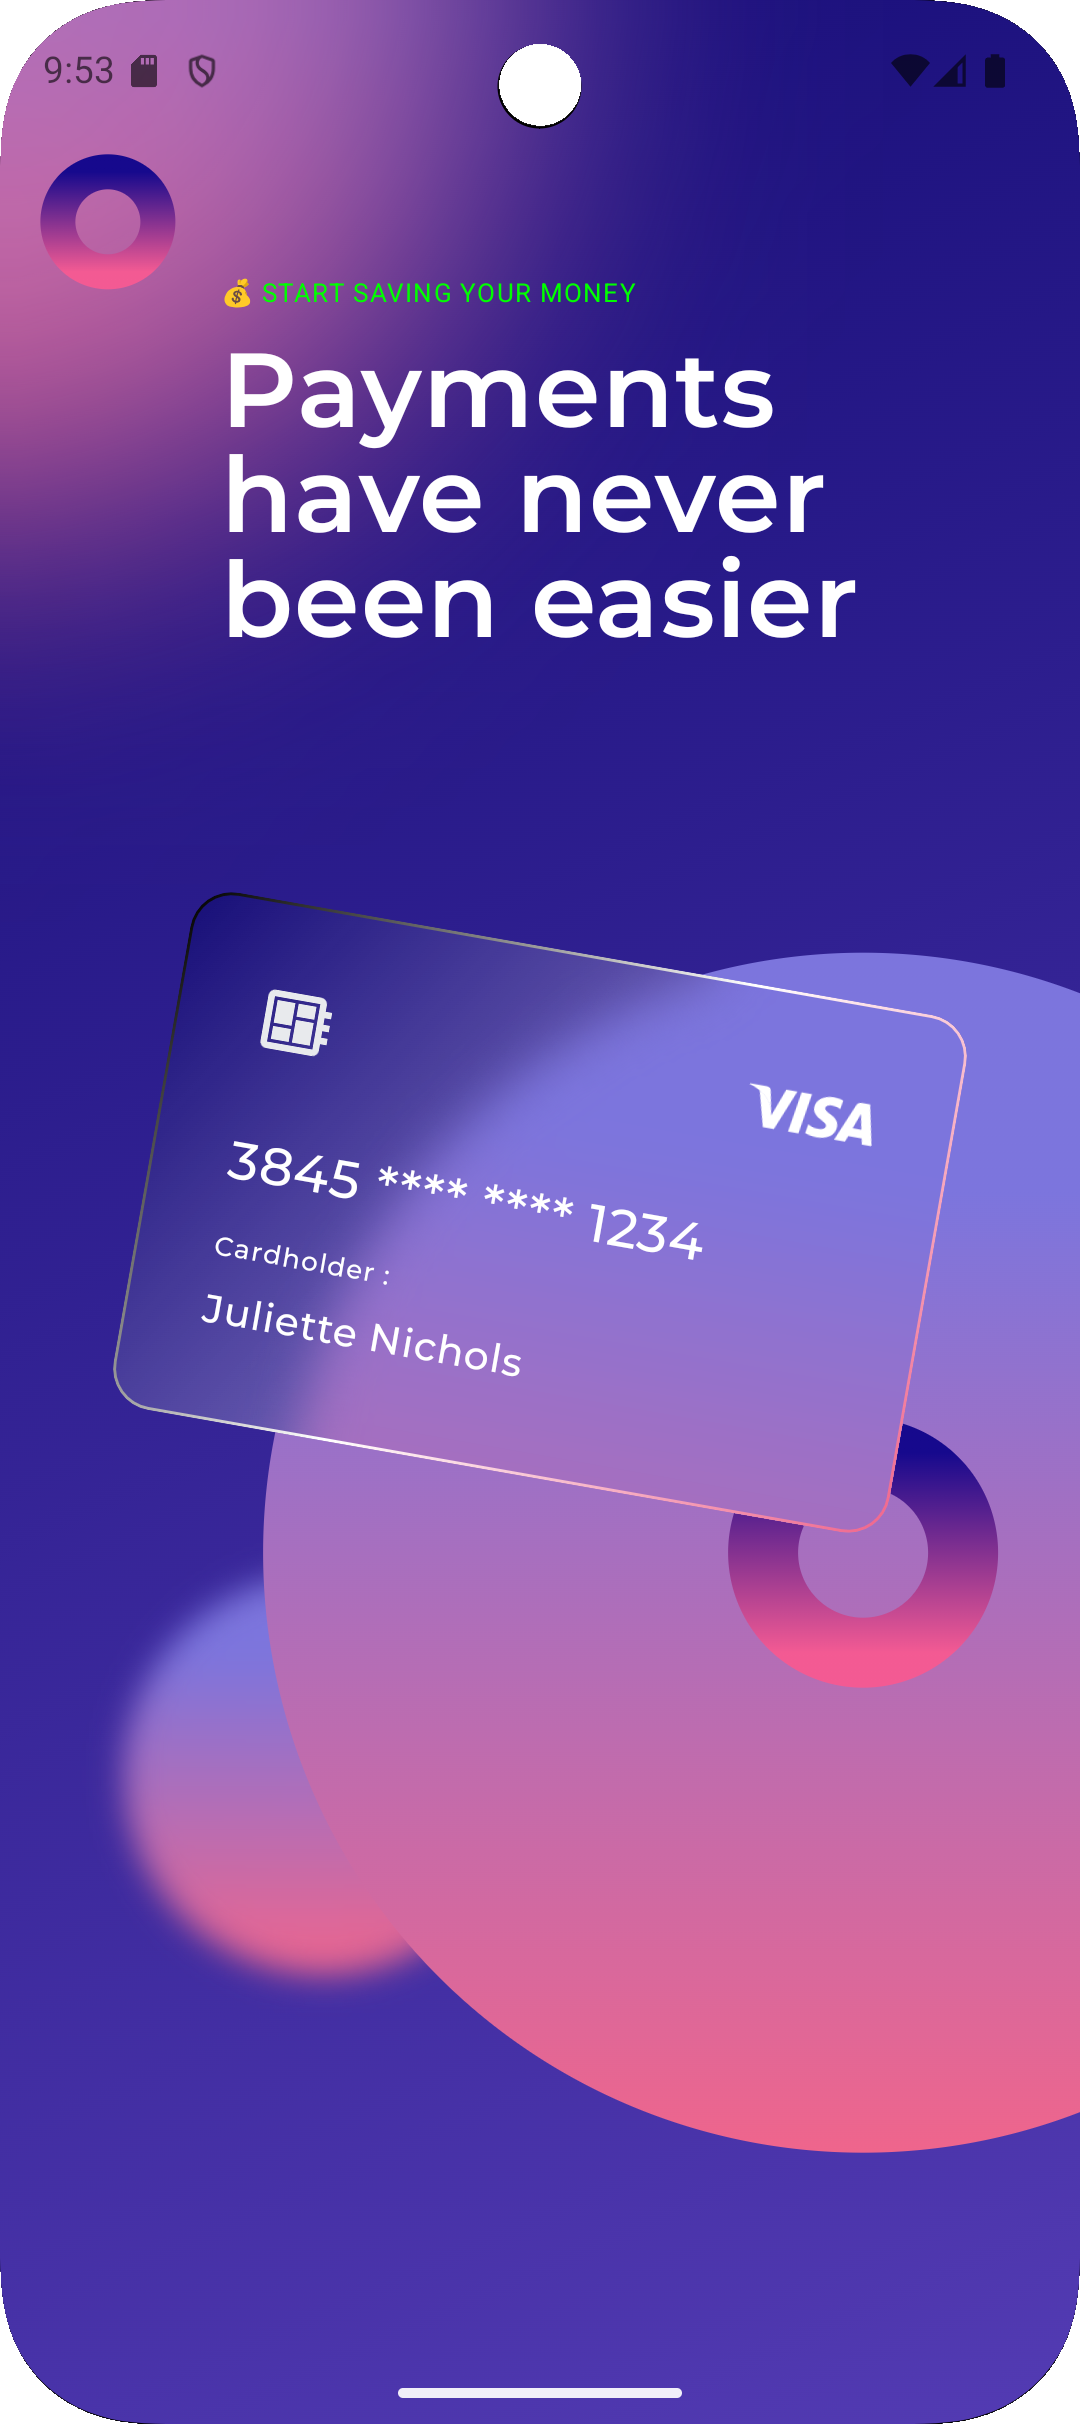
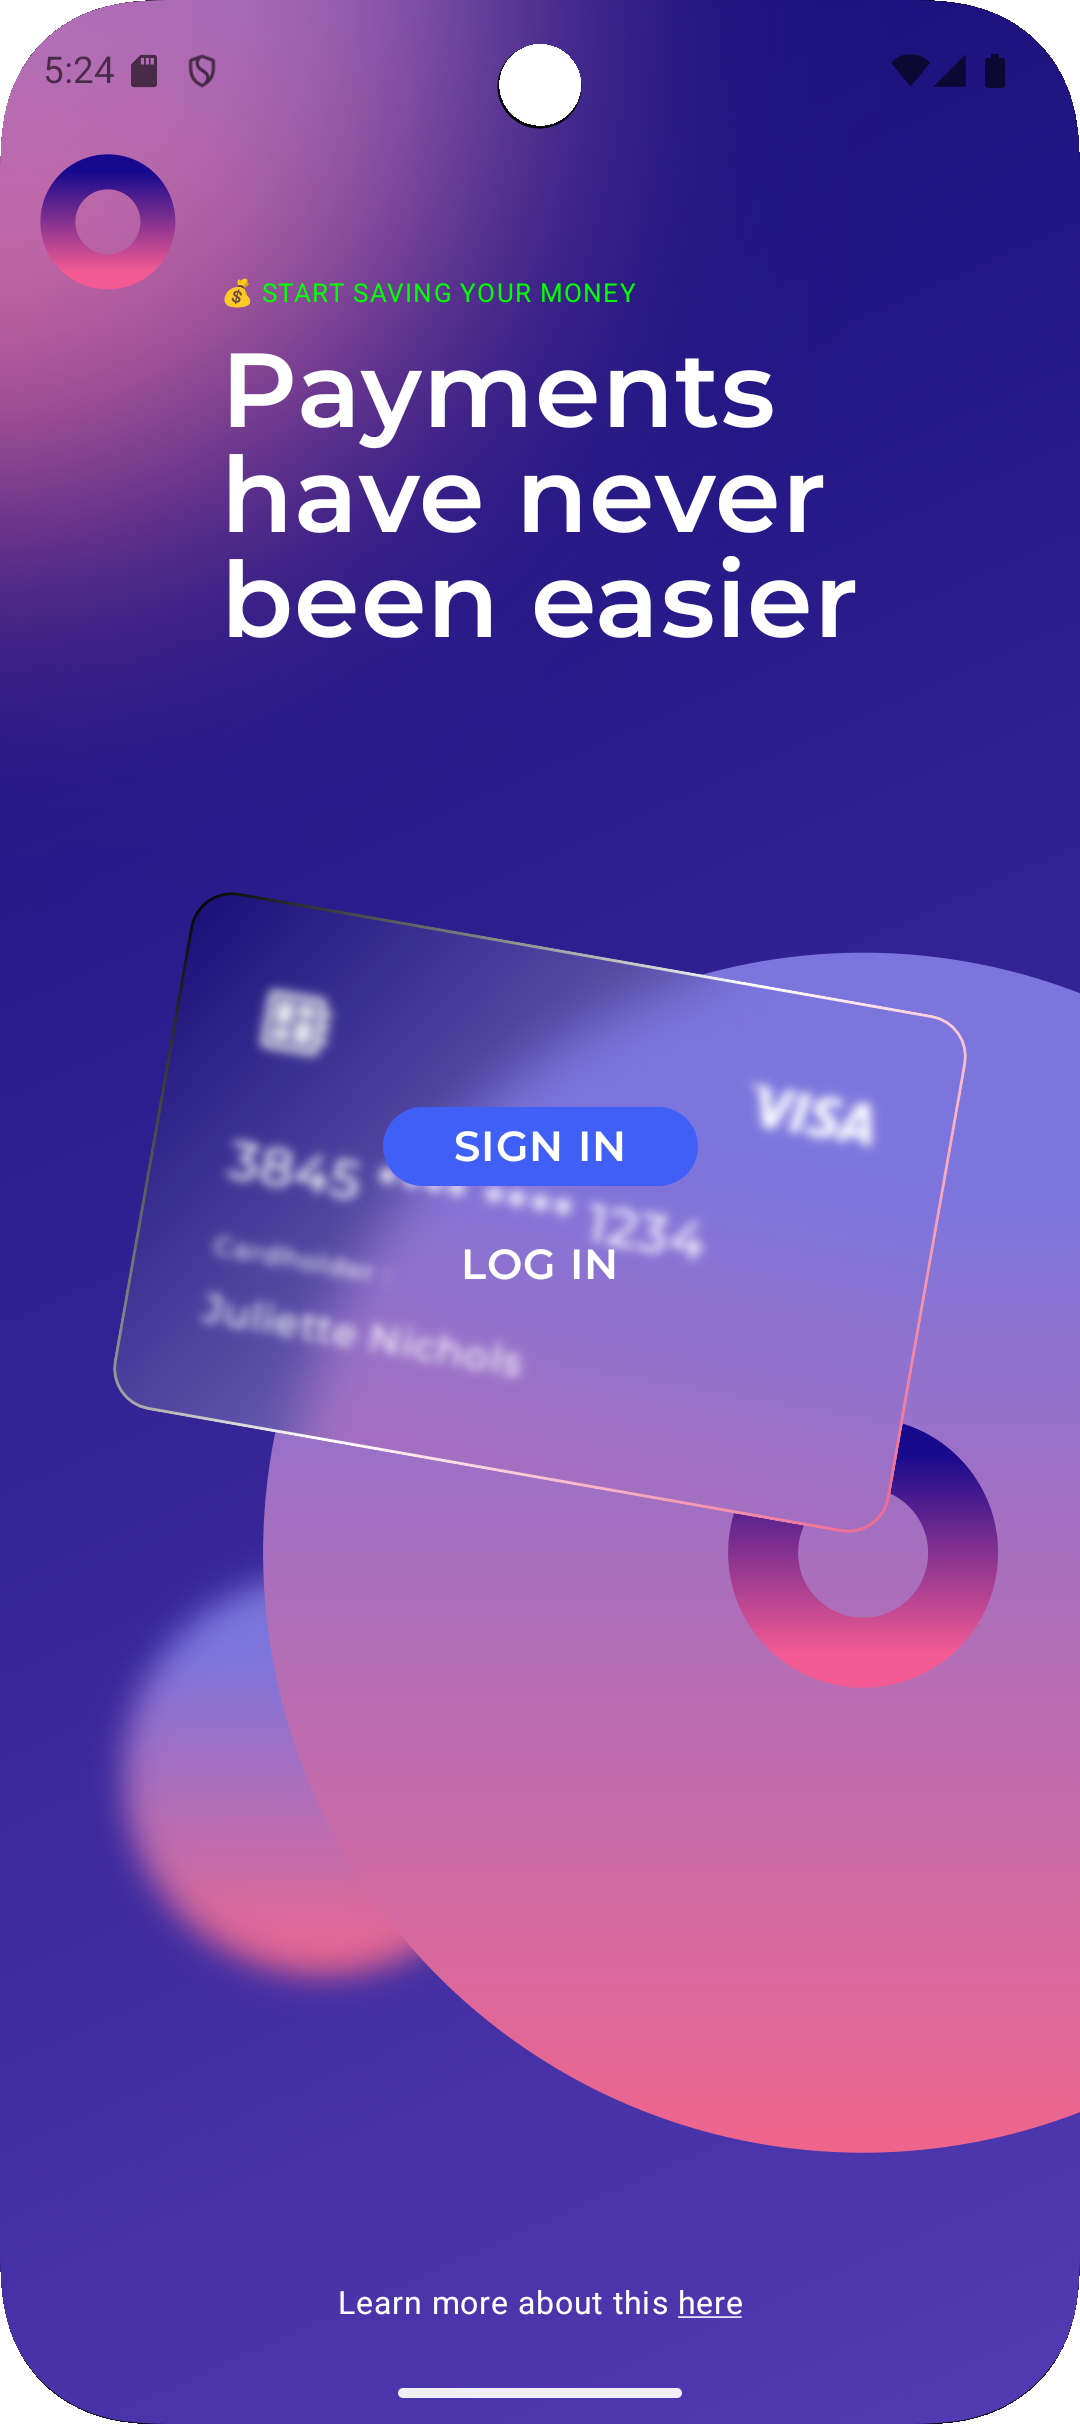
new preview

diff --git a/app/src/main/java/com/shibler/glassmorphism/MainActivity.kt b/app/src/main/java/com/shibler/glassmorphism/MainActivity.kt
@@ -11,11 +11,16 @@ import androidx.compose.foundation.layout.Arrangement
 import androidx.compose.foundation.layout.Box
 import androidx.compose.foundation.layout.Column
 import androidx.compose.foundation.layout.Row
+import androidx.compose.foundation.layout.Spacer
+import androidx.compose.foundation.layout.WindowInsets
+import androidx.compose.foundation.layout.asPaddingValues
 import androidx.compose.foundation.layout.fillMaxSize
 import androidx.compose.foundation.layout.fillMaxWidth
+import androidx.compose.foundation.layout.height
 import androidx.compose.foundation.layout.offset
 import androidx.compose.foundation.layout.padding
 import androidx.compose.foundation.layout.size
+import androidx.compose.foundation.layout.systemBars
 import androidx.compose.foundation.shape.RoundedCornerShape
 import androidx.compose.material3.Text
 import androidx.compose.material3.windowsizeclass.ExperimentalMaterial3WindowSizeClassApi
@@ -43,6 +48,8 @@ import androidx.compose.ui.platform.LocalDensity
 import androidx.compose.ui.res.painterResource
 import androidx.compose.ui.text.font.Font
 import androidx.compose.ui.text.font.FontFamily
+import androidx.compose.ui.text.style.TextDecoration
+import androidx.compose.ui.tooling.preview.Devices
 import androidx.compose.ui.tooling.preview.Preview
 import androidx.compose.ui.unit.IntSize
 import androidx.compose.ui.unit.dp
@@ -50,6 +57,7 @@ import androidx.compose.ui.unit.sp
 import com.shibler.glassmorphism.ui.theme.GlassmorphismTheme
 import com.shibler.glassmorphism.ui.theme.backgroundBottom
 import com.shibler.glassmorphism.ui.theme.backgroundTop
+import com.shibler.glassmorphism.ui.theme.btnColor
 import com.shibler.glassmorphism.ui.theme.circleGradient
 import com.shibler.glassmorphism.ui.theme.orange
 import com.shibler.glassmorphism.ui.theme.pink
@@ -66,9 +74,9 @@ class MainActivity : ComponentActivity() {
                 val windowSizeClass = calculateWindowSizeClass(this)
 
                 when(windowSizeClass.widthSizeClass) {
-                    androidx.compose.material3.windowsizeclass.WindowWidthSizeClass.Compact -> GLassmorphism2(text = "Compact")
-                    androidx.compose.material3.windowsizeclass.WindowWidthSizeClass.Medium -> GLassmorphism2(text = "Medium")
-                    androidx.compose.material3.windowsizeclass.WindowWidthSizeClass.Expanded -> GLassmorphism2(text = "Expanded")
+                    androidx.compose.material3.windowsizeclass.WindowWidthSizeClass.Compact -> GLassmorphismPhoneScreen()
+                    androidx.compose.material3.windowsizeclass.WindowWidthSizeClass.Medium -> GLassmorphismPhoneScreen()
+                    androidx.compose.material3.windowsizeclass.WindowWidthSizeClass.Expanded -> GLassmorphismTabletScreen(text = "Expanded")
                 }
 
             }
@@ -76,7 +84,7 @@ class MainActivity : ComponentActivity() {
     }
 }
 
-@Preview(showBackground = true)
+/*@Preview(showBackground = true)
 @Composable
 fun Glassmorphism1() {
 
@@ -154,11 +162,11 @@ fun Glassmorphism1() {
 
     }
 
-}
+}*/
 
 @Preview
 @Composable
-fun GLassmorphism2(text : String = "Hey") {
+fun GLassmorphismPhoneScreen() {
 
     val width = LocalConfiguration.current.screenWidthDp.dp
     val density = LocalDensity.current
@@ -198,29 +206,13 @@ fun GLassmorphism2(text : String = "Hey") {
 
         Donut(Offset(widthInPx * 0.8f, heightInPx * 0.7f))
 
-            /*Box(
-                modifier = Modifier
-                    .rotate(rotationAngle)
-                    .size(300.dp, 200.dp)
-                    .clip(RoundedCornerShape(16.dp))
-                    .border(1.dp, borderGradient, RoundedCornerShape(16.dp))
-                    .blur(16.dp)
-                    .onGloballyPositioned { it ->
-                        position = it.positionInWindow()
-                        boxSize = it.size
-                    }
-                    .background(backgroundGradient)
-            ) {
-                Circle2(Offset((widthInPx * 0.8f) - position.x + 130f, (heightInPx * 0.7f) - position.y - 130f), 600f)
-            }*/
-
         bankCard(
             modifier = Modifier
                 .rotate(rotationAngle)
                 .size(300.dp, 200.dp)
                 .clip(RoundedCornerShape(16.dp))
                 .border(1.dp, borderGradient, RoundedCornerShape(16.dp))
-                .blur(0.dp)
+                .blur(3.dp)
                 .onGloballyPositioned { it ->
                     position = it.positionInWindow()
                     boxSize = it.size
@@ -230,24 +222,6 @@ fun GLassmorphism2(text : String = "Hey") {
         ) {
             Circle2(Offset((widthInPx * 0.8f) - position.x + 130f, (heightInPx * 0.7f) - position.y - 130f), 600f, modifier = Modifier.blur(16.dp))
         }
-
-        /*bankCard(
-            modifier = Modifier
-                .offset(x = -20.dp, y = 200.dp)
-                .rotate(-10f)
-                .size(200.dp, 120.dp)
-                .clip(RoundedCornerShape(16.dp))
-                .border(1.dp, borderGradient, RoundedCornerShape(16.dp))
-                .blur(0.dp)
-                .onGloballyPositioned { it ->
-                    position = it.positionInWindow()
-                    boxSize = it.size
-                }
-                .background(backgroundGradient)
-                .background(Brush.linearGradient(listOf(Color.White.copy(0.01f), Color.White.copy(0.5f))))
-        ) {
-
-        }*/
 
     }
 
@@ -277,12 +251,195 @@ fun GLassmorphism2(text : String = "Hey") {
 
     }
 
+    Column(
+        modifier = Modifier
+            .fillMaxSize(),
+        horizontalAlignment = Alignment.CenterHorizontally,
+        verticalArrangement = Arrangement.Center
+    ) {
+        Box(
+            modifier = Modifier
+                .background(btnColor, RoundedCornerShape(32.dp))
+                .size(120.dp, 30.dp)
+                .clip(RoundedCornerShape(32.dp)),
+            contentAlignment = Alignment.Center
+        ) {
+            Text("SIGN IN", color = Color.White, fontSize = 16.sp, fontFamily = FontFamily(Font(R.font.montserratsemibold)))
+        }
+
+        Spacer(modifier = Modifier.height(10.dp))
+
+        Box(
+            modifier = Modifier
+                .size(120.dp, 40.dp),
+            contentAlignment = Alignment.Center
+        ) {
+            Text("LOG IN", color = Color.White, fontSize = 16.sp, fontFamily = FontFamily(Font(R.font.montserratsemibold)))
+        }
+    }
+
+    val bottomPadding = with(LocalDensity.current) {
+        WindowInsets.systemBars.asPaddingValues().calculateBottomPadding()
+    }
+
+    Box(
+        modifier = Modifier
+            .fillMaxSize()
+            .padding(bottom = bottomPadding + 10.dp),
+        contentAlignment = Alignment.BottomCenter
+    ) {
+        Row() {
+            Text("Learn more about this ", color = Color.White, fontSize = 12.sp)
+            Text("here", color = Color.White, fontSize = 12.sp, textDecoration = TextDecoration.Underline)
+        }
+
+    }
+
     //Text(text, modifier = Modifier.offset(x = 50.dp, y = 50.dp))
+
+}
+
+@Preview(device = "spec:width=1280dp,height=800dp,dpi=240")
+@Composable
+fun GLassmorphismTabletScreen(text : String = "") {
+
+    val width = LocalConfiguration.current.screenWidthDp.dp
+    val density = LocalDensity.current
+    val widthInPx = with(density) { width.toPx() }
+    val height = LocalConfiguration.current.screenHeightDp.dp
+    val heightInPx = with(density) { height.toPx() }
+
+    var position by remember { mutableStateOf(Offset.Zero) }
+
+    var boxSize = IntSize.Zero
+
+    val borderGradient = Brush.linearGradient(
+        listOf(Color.Black,Color.White.copy(alpha = 1f), circleGradient),
+    )
+
+    val rotationAngle = 10f
+
+    val backgroundGradient = Brush.linearGradient(
+        colors = listOf(backgroundBottom, backgroundTop),
+    )
+
+    val cardGradient = Brush.linearGradient(
+        colors = listOf(Color.White.copy(alpha = 0.1f), Color.White.copy(alpha = 0.2f)),
+        start = Offset(position.x, position.y),
+        end = Offset(position.x + boxSize.width, position.y + boxSize.height)
+    )
+
+    Box(
+        modifier = Modifier
+            .fillMaxSize()
+            .background(backgroundGradient),
+        contentAlignment = Alignment.Center
+    ) {
+        //Circle2(Offset(widthInPx * 0.6f, heightInPx * 0.7f), 300f, modifier = Modifier.blur(50.dp))
+
+        Circle2(Offset(widthInPx * 0.9f, heightInPx * 0.7f), 800f)//bottom right circle
+
+        Donut(Offset(widthInPx * 0.8f, heightInPx * 0.7f))
+
+        bankCard(
+            modifier = Modifier
+                .rotate(rotationAngle)
+                .size(450.dp, 300.dp)
+                .clip(RoundedCornerShape(16.dp))
+                .border(1.dp, borderGradient, RoundedCornerShape(16.dp))
+                .blur(3.dp)
+                .onGloballyPositioned { it ->
+                    position = it.positionInWindow()
+                    boxSize = it.size
+                }
+                .background(backgroundGradient)
+                .background(Brush.linearGradient(listOf(Color.White.copy(0.01f), Color.White.copy(0.3f))))
+        ) {
+            Circle2(Offset((widthInPx * 0.9f) - position.x + 100f, (heightInPx * 0.7f) - position.y -260f), 800f, modifier = Modifier.blur(16.dp))
+        }
+
+
+    }
+
+
+    Circle2(Offset.Zero, 500f, modifier = Modifier.blur(100.dp)) //top left circle
+
+
+    Donut(Offset(widthInPx * 0.1f, heightInPx * 0.1f), radius = 50f)
+
+    Column(
+        modifier = Modifier
+            .fillMaxSize()
+            .padding(start = 50.dp, top = 50.dp, end = 30.dp),
+        horizontalAlignment = Alignment.Start,
+        verticalArrangement = Arrangement.Center
+    ) {
+
+        Column(
+            modifier = Modifier
+                .padding(top = 50.dp),
+            horizontalAlignment = Alignment.Start
+        ) {
+            Text("\uD83D\uDCB0 START SAVING YOUR MONEY", color = Color.Green, fontSize = 15.sp)
+
+            Text("Payments \nhave never \nbeen easier", color = Color.White, fontSize = 60.sp, fontFamily = FontFamily(Font(R.font.montserratsemibold)), lineHeight = 60.sp)
+            Spacer(modifier = Modifier.height(40.dp))
+
+            Text("Discover the easiest way to manage your personal finances. \nSave, analyse, invest, withdraw, send and receive money all\nover the world with no limit !", color = Color.White, fontSize = 16.sp, fontFamily = FontFamily(Font(R.font.montserratmedium)))
+        }
+
+    }
+
+    Column(
+        modifier = Modifier
+            .fillMaxSize(),
+        horizontalAlignment = Alignment.CenterHorizontally,
+        verticalArrangement = Arrangement.Center
+    ) {
+        Box(
+            modifier = Modifier
+                .background(btnColor, RoundedCornerShape(32.dp))
+                .size(240.dp, 60.dp)
+                .clip(RoundedCornerShape(32.dp)),
+            contentAlignment = Alignment.Center
+        ) {
+            Text("SIGN IN", color = Color.White, fontSize = 32.sp, fontFamily = FontFamily(Font(R.font.montserratsemibold)))
+        }
+
+        Spacer(modifier = Modifier.height(10.dp))
+
+        Box(
+            modifier = Modifier
+                .size(240.dp, 80.dp),
+            contentAlignment = Alignment.Center
+        ) {
+            Text("LOG IN", color = Color.White, fontSize = 32.sp, fontFamily = FontFamily(Font(R.font.montserratsemibold)))
+        }
+    }
+
+    val bottomPadding = with(LocalDensity.current) {
+        WindowInsets.systemBars.asPaddingValues().calculateBottomPadding()
+    }
+
+    Box(
+        modifier = Modifier
+            .fillMaxSize()
+            .padding(bottom = bottomPadding + 10.dp),
+        contentAlignment = Alignment.BottomCenter
+    ) {
+        Row() {
+            Text("Learn more about this ", color = Color.White, fontSize = 12.sp)
+            Text("here", color = Color.White, fontSize = 12.sp, textDecoration = TextDecoration.Underline)
+        }
+
+    }
 
 }
 
 @Composable
 fun bankCard(modifier: Modifier, composable: @Composable () -> Unit) {
+
+    //val fontMultiplier = fontCoef
 
     Box(
         modifier = modifier
@@ -328,7 +485,6 @@ fun bankCard(modifier: Modifier, composable: @Composable () -> Unit) {
         }
 
     }
-
 
 }
 

diff --git a/app/src/main/java/com/shibler/glassmorphism/Canvas.kt b/app/src/main/java/com/shibler/glassmorphism/Canvas.kt
@@ -107,3 +107,14 @@ fun DrawScope.drawDonut(center : Offset, radius: Float) {
         )
     )
 }
+
+@Composable
+fun Point(center : Offset) {
+    Canvas(modifier = Modifier.fillMaxSize()) {
+        drawCircle(
+            color = Color.Red,
+            radius = 10f,
+            center = center
+        )
+    }
+}

diff --git a/app/src/main/java/com/shibler/glassmorphism/ui/theme/Color.kt b/app/src/main/java/com/shibler/glassmorphism/ui/theme/Color.kt
@@ -22,3 +22,5 @@ val circleGradient2 = Color(124, 117, 221)
 
 val donutHoleTop = Color(243, 90, 147)
 val donutHoleBottom = Color(22, 9, 141)
+
+val btnColor = Color(63, 95, 247)
